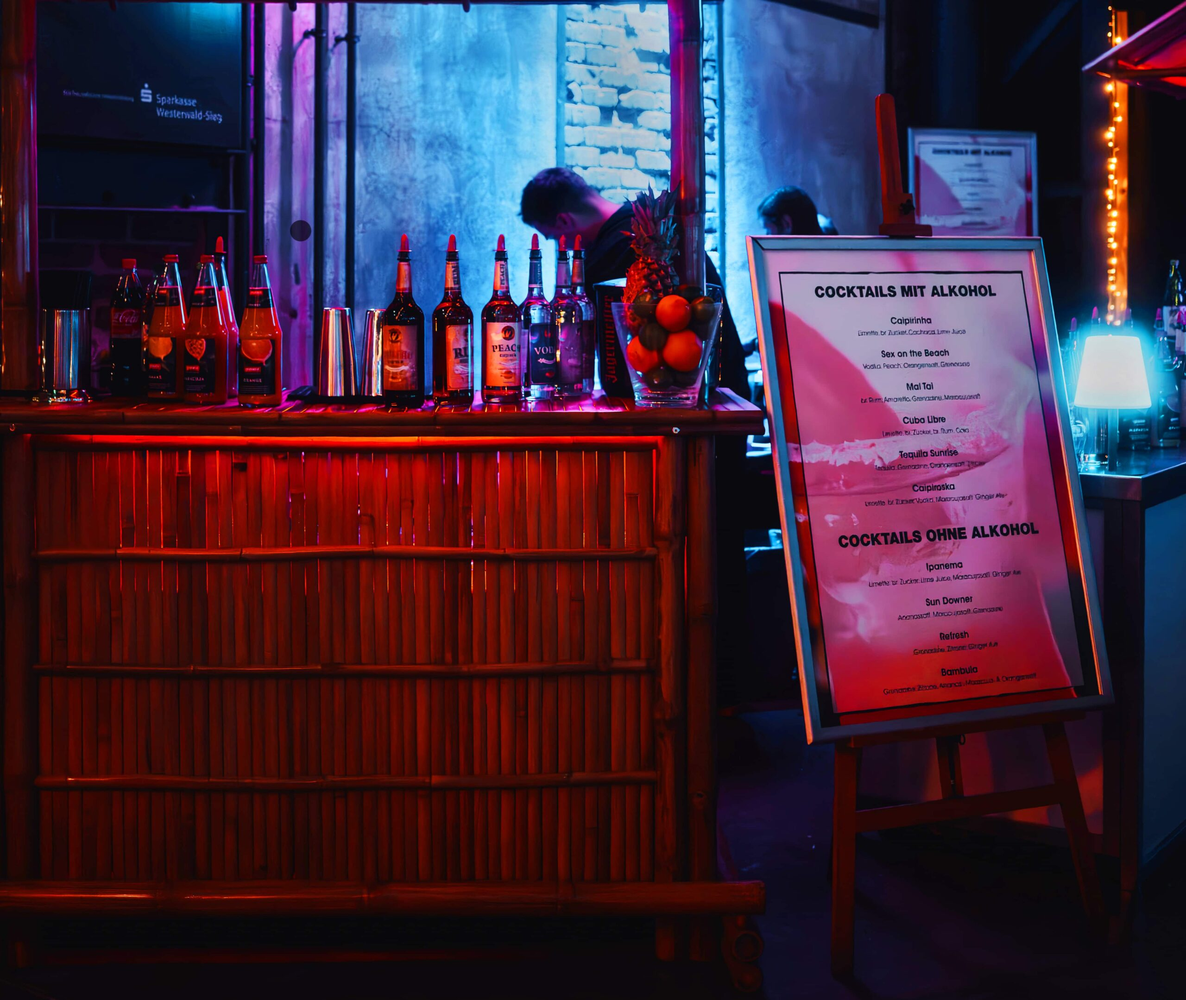
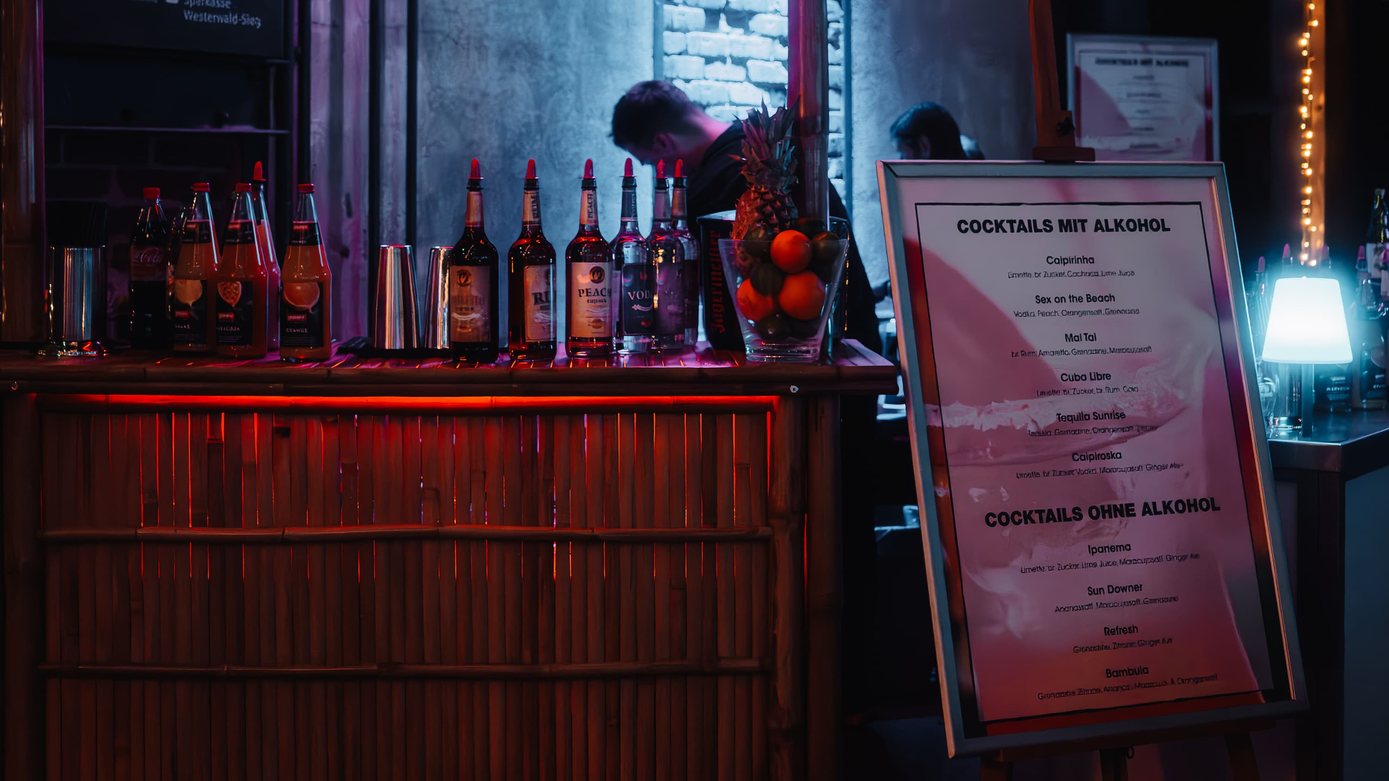
Remove outdated wedding image and add new images for wedding and corporate events. Update image references in the imageProvider and various components to reflect the new structure. Enhance gallery items in multiple pages to include new event-related images.

diff --git a/src/provider/imageProvider.ts b/src/provider/imageProvider.ts
@@ -10,6 +10,7 @@ import bratwurstGrill from "../assets/images/catering/bratwurst-grill.jpg";
 import bmwKaltenbach from "../assets/images/logos/bmw-kaltenbach.png";
 import coffeeTruck from "../assets/images/catering/coffee-truck.jpg";
 import cocktailService from "../assets/images/catering/cocktail-service.jpg";
+import cocktailFruechte from "../assets/images/cocktail/cocktail-fruechte.jpg";
 import cocktailsAroundWorld from "../assets/images/blog/cocktails-around-world.jpg";
 import crepes from "../assets/images/catering/crepes.jpg";
 import eisbecherDiverse from "../assets/images/catering/eisbecher-diverse.jpg";
@@ -18,6 +19,7 @@ import flammkuchen from "../assets/images/catering/flammkuchen.jpg";
 import bunteCocktails from "../assets/images/blog/bunte-cocktails.jpg";
 import elektrisola from "../assets/images/logos/elektrisola.png";
 import firmenfeier from "../assets/images/events/firmenfeier/firmenfeier.jpg";
+import firmenfeierBeachBestuhlung from "../assets/images/events/firmenfeier/firmenfeier-beach-bestuhlung.jpg";
 import firmenfeierCocktailPreparation from "../assets/images/events/firmenfeier/firmenfeier-cocktail-preparation.jpg";
 import firmenfeierCocktailShake1 from "../assets/images/events/firmenfeier/firmenfeier-cocktail-shake-1.jpg";
 import firmenfeierFullSetup from "../assets/images/events/firmenfeier/firmenfeier-full-setup.jpg";
@@ -31,7 +33,13 @@ import koelnDomBruecke from "../assets/images/hero/koeln-dom-bruecke.jpg";
 import messeHero from "../assets/images/hero/messe-hero.jpg";
 import mobileCocktailbarHero from "../assets/images/hero/mobile-cocktailbar-hero.jpg";
 import mitarbeiterin from "../assets/images/catering/mitarbeiterin.jpg";
-import hochzeit from "../assets/images/events/hochzeit/hochzeit.jpg";
+import hochzeit from "../assets/images/events/hochzeit/hochzeit-cocktailbar-2.jpg";
+import hochzeitCocktail from "../assets/images/events/hochzeit/hochzeit-cocktail.jpg";
+import hochzeitCocktailbar from "../assets/images/events/hochzeit/hochzeit-cocktailbar.jpg";
+import hochzeitCocktailReihe from "../assets/images/events/hochzeit/hochzeit-cocktail-reihe.jpg";
+import hochzeitCocktailReiheQuer from "../assets/images/events/hochzeit/hochzeit-cocktail-reihe-quer.jpg";
+import hochzeitDekoration from "../assets/images/events/hochzeit/hochzeit-dekoration.jpg";
+import hochzeitEiswagen from "../assets/images/events/hochzeit/hochzeit-eiswagen.jpg";
 import logo from "../assets/images/logo/logo-alt-weiss.png";
 import messe from "../assets/images/events/messe/messe.jpg";
 import messeCocktailFreshMint from "../assets/images/events/messe/cocktail-fresh-mint.jpg";
@@ -156,6 +164,11 @@ export const imageProvider: ImageProvider = {
       altEn: "Colourful cocktails elegantly arranged on a bar",
       src: bunteCocktails,
     },
+    cocktailFruechte: {
+      alt: "Geschnittene Orangen, Limetten und Zitronen für den Cocktail-Service",
+      altEn: "Sliced oranges, limes and lemons for cocktail service",
+      src: cocktailFruechte,
+    },
     cocktailsAroundWorld: {
       alt: "Drei Cocktails inspiriert von verschiedenen Laendern",
       altEn: "Three cocktails inspired by different countries",
@@ -182,6 +195,11 @@ export const imageProvider: ImageProvider = {
       alt: "Cocktail-Bar bei einer Firmenfeier mit Gästen",
       altEn: "Cocktail bar at a corporate celebration with guests",
       src: firmenfeier,
+    },
+    firmenfeierBeachBestuhlung: {
+      alt: "Cocktailwagen von Pfeil's Catering bei einem Sommerfest mit Bestuhlung",
+      altEn: "Pfeil's Catering cocktail trailer at a summer festival with seating",
+      src: firmenfeierBeachBestuhlung,
     },
     firmenfeierCocktailPreparation: {
       alt: "Zwei Barkeeperinnen bereiten Cocktails bei einer Firmenfeier vor, Cocktail-Becher im Vordergrund",
@@ -221,9 +239,41 @@ export const imageProvider: ImageProvider = {
       src: firmenfeierTrailerCrowd,
     },
     hochzeit: {
-      alt: "Hochzeitsfeier mit stilvoller Cocktail-Bar",
-      altEn: "Wedding celebration with elegant cocktail bar",
+      alt: "Cocktailbar von Pfeil's Catering mit dekorierten Stehtischen auf einer Hochzeit",
+      altEn:
+        "Pfeil's Catering cocktail bar with decorated standing tables at a wedding",
       src: hochzeit,
+    },
+    hochzeitCocktail: {
+      alt: "Cocktail auf einem mit Blumen dekorierten Hochzeitstisch",
+      altEn: "Cocktail on a wedding table decorated with flowers",
+      src: hochzeitCocktail,
+    },
+    hochzeitCocktailbar: {
+      alt: "Hochzeitslocation mit langen dekorierten Tafeln und Cocktailbar von Pfeil's Catering in der Ecke",
+      altEn:
+        "Wedding venue with long decorated tables and Pfeil's Catering cocktail bar in the corner",
+      src: hochzeitCocktailbar,
+    },
+    hochzeitCocktailReihe: {
+      alt: "Vier farbenfrohe Cocktails in einer Reihe auf einer Hochzeit",
+      altEn: "Four colourful cocktails in a row at a wedding",
+      src: hochzeitCocktailReihe,
+    },
+    hochzeitCocktailReiheQuer: {
+      alt: "Vier farbenfrohe Cocktails in einer Reihe auf einer Hochzeit, Querformat",
+      altEn: "Four colourful cocktails in a row at a wedding, landscape format",
+      src: hochzeitCocktailReiheQuer,
+    },
+    hochzeitDekoration: {
+      alt: "Lange dekorierte Tafeln auf einer privaten Hochzeitsfeier",
+      altEn: "Long decorated tables at a private wedding celebration",
+      src: hochzeitDekoration,
+    },
+    hochzeitEiswagen: {
+      alt: "Mobiler Eiswagen von Eis-Café Pfeil auf einer Hochzeit",
+      altEn: "Mobile ice cream cart by Eis-Café Pfeil at a wedding",
+      src: hochzeitEiswagen,
     },
     messe: {
       alt: "Mobile Cocktail-Bar auf einer Messe oder Großveranstaltung",
